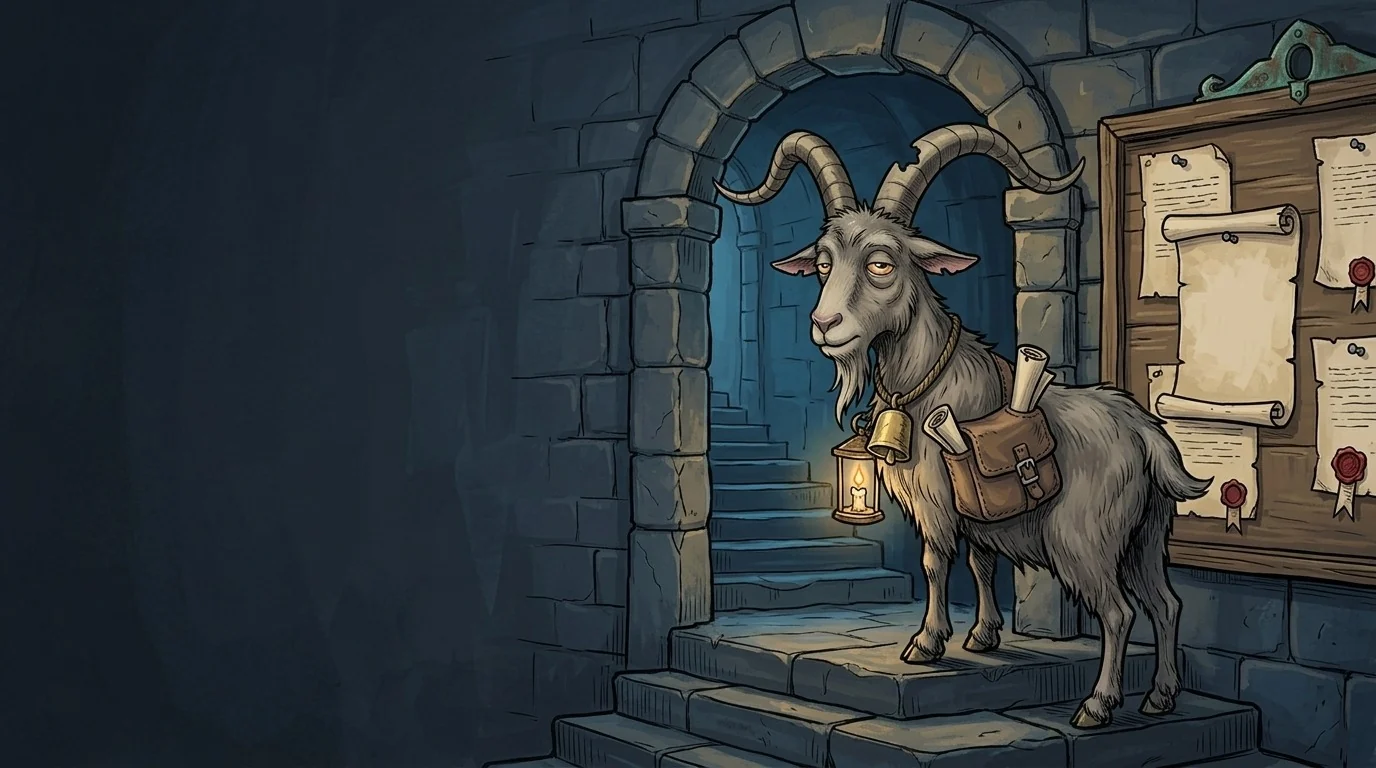
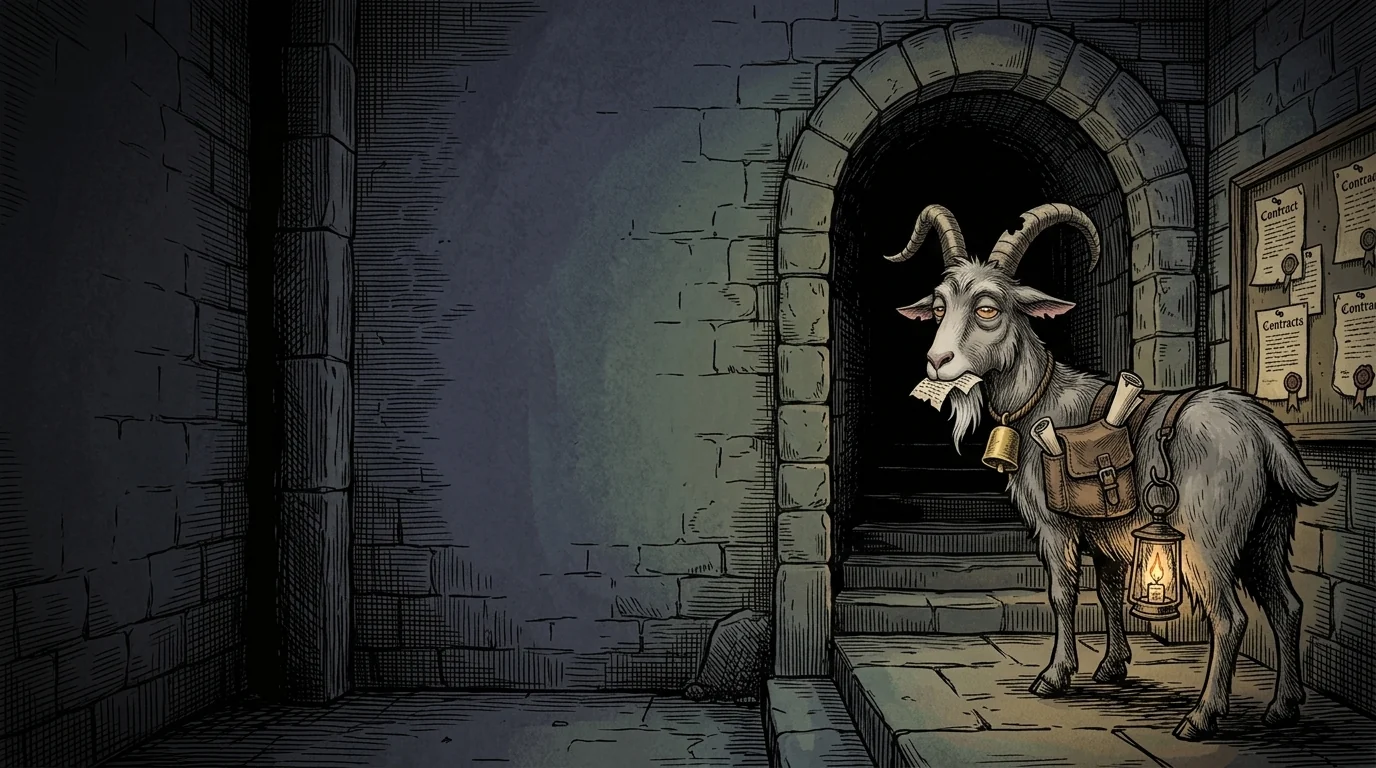
2.22.0: five engraved scenes with Azazel on all fours, dark red death screen
Claude-Session: https://claude.ai/code/session_01DcTTRr3it9U614qgXSqALW

diff --git a/index.html b/index.html
@@ -346,7 +346,7 @@ section.chamber { display: grid; gap: 10px; background: #3a2a1d url(assets/ui/te
 @keyframes rays { to { transform: rotate(360deg); } }
 .mote { position: fixed; top: -12px; z-index: 5; width: 5px; height: 5px; border-radius: 50%; background: #f3c95c; box-shadow: 0 0 8px 2px rgba(243,201,92,.6); pointer-events: none; }
 #scene { transition: filter 2s; }
-#scene.dead { filter: saturate(.35) brightness(.85); }
+#scene.dead { filter: saturate(.3) sepia(.35) hue-rotate(-20deg) brightness(.8); }
 @media (prefers-reduced-motion: reduce) { .endrays { animation: none; } #scene { transition: none; } }
 /* relic pick: the cards turn to face you, rare ones catch the light, the icons float, the taken one flies */
 .picks { perspective: 1000px; }
@@ -422,7 +422,7 @@ ol.lbrows .muted, ol.lbrows .depth { font-size: 13px; text-align: right; }
 /* ---------- title screen (shown once per visit) ---------- */
 /* One column, everything centred under the logo and the same width as it. Wide screens keep the column in the dark
    left part of the painting, centred within that part; upright phones centre it on the screen. */
-#scene.title-art { background-position: 30% center; }
+#scene.title-art { background-position: 85% center; }
 #scene.title-art::after { background: linear-gradient(90deg, rgba(10,12,16,.82), rgba(10,12,16,.55) 42%, rgba(10,12,16,.15) 75%); }
 main.title { max-width: none; min-height: calc(100vh - 56px); min-height: calc(100svh - 56px); grid-template-columns: minmax(0, 46%) 1fr; align-items: center; }
 .titlecard { --w: clamp(320px, 30vw, 440px); width: var(--w); max-width: 100%; justify-self: center; display: grid; gap: 16px; justify-items: stretch; text-align: center; }
@@ -1009,10 +1009,10 @@ main.solo:has(> .end) { grid-template-columns: minmax(0, 1fr) minmax(0, 1fr); }
 main.solo:has(> .end) > :not(details) { grid-column: 1 / -1; }
 main.solo:has(> .end) > details[open] { grid-column: 1 / -1; }
 main.solo:has(> .end) > details.lb { margin: 0; max-width: none; }
-#scene.dead::after { background: radial-gradient(ellipse at 50% 40%, rgba(40,6,8,.55), rgba(18,4,6,.94) 75%); animation: deadglow 2.4s ease-out both; }
+#scene.dead::after { background: radial-gradient(ellipse at 50% 40%, rgba(90,8,12,.5), rgba(14,2,4,.9) 80%); animation: deadglow 2.4s ease-out both; }
 @keyframes deadglow { from { background-color: rgba(150,20,26,.55); } to { background-color: transparent; } }
-.end.dead { background-color: #140d0e; }
-.end .label.ending { color: #d9a0a3; letter-spacing: .2em; }
+.end.dead { border-image-source: url(assets/ui/panel3-dead.webp); }
+.end .label.ending { color: #b5666b; letter-spacing: .2em; }
 .end.dead h2 { color: #c9575c; font-size: 38px; text-shadow: 0 2px 0 #000; }
 .end .epitaph { margin: 0; max-width: 34ch; font: italic 400 21px/1.3 var(--body); color: var(--bone); text-wrap: balance; }
 .end .epitaph::before { content: '“'; } .end .epitaph::after { content: '”'; }
@@ -2380,7 +2380,7 @@ img.clerk { box-shadow: none; border-radius: 0; object-fit: contain !important; 
 const E = window.Engine;
 // Semantic version: MAJOR = overhaul or redesign, MINOR = update, PATCH = bug fix. Bump it in every change and add a CHANGELOG.md entry.
 // Runs from before versioning carry the old tags 'v3' (first public playtest) and 'v4'.
-const VERSION = '2.21.1';
+const VERSION = '2.22.0';
 // Web build only: where run reports go (a Google Form). Empty in the Claude-hosted build.
 const REPORT = {"url": "https://docs.google.com/forms/d/e/1FAIpQLScAulcyNeUuIkKvoNN67TcOBPP4DqzCyN0W5lsdEM4vQ-SZ4w/formResponse", "entry": "entry.1553952563"};
 const BOARD_CSV = "https://docs.google.com/spreadsheets/d/e/2PACX-1vSUVN5ytJFkGg9NFstRvqxNMD3CIX85ApjWW1Hc8mw0DPSgz31VPmJhZ07FcwhStCdDALGtq5ZI2L8r/pub?gid=1200368070&single=true&output=csv"; // the Sheet's published Leaderboard tab; empty hides the board

diff --git a/src/ui.html b/src/ui.html
@@ -345,7 +345,7 @@ section.chamber { display: grid; gap: 10px; background: #3a2a1d url(assets/ui/te
 @keyframes rays { to { transform: rotate(360deg); } }
 .mote { position: fixed; top: -12px; z-index: 5; width: 5px; height: 5px; border-radius: 50%; background: #f3c95c; box-shadow: 0 0 8px 2px rgba(243,201,92,.6); pointer-events: none; }
 #scene { transition: filter 2s; }
-#scene.dead { filter: saturate(.35) brightness(.85); }
+#scene.dead { filter: saturate(.3) sepia(.35) hue-rotate(-20deg) brightness(.8); }
 @media (prefers-reduced-motion: reduce) { .endrays { animation: none; } #scene { transition: none; } }
 /* relic pick: the cards turn to face you, rare ones catch the light, the icons float, the taken one flies */
 .picks { perspective: 1000px; }
@@ -421,7 +421,7 @@ ol.lbrows .muted, ol.lbrows .depth { font-size: 13px; text-align: right; }
 /* ---------- title screen (shown once per visit) ---------- */
 /* One column, everything centred under the logo and the same width as it. Wide screens keep the column in the dark
    left part of the painting, centred within that part; upright phones centre it on the screen. */
-#scene.title-art { background-position: 30% center; }
+#scene.title-art { background-position: 85% center; }
 #scene.title-art::after { background: linear-gradient(90deg, rgba(10,12,16,.82), rgba(10,12,16,.55) 42%, rgba(10,12,16,.15) 75%); }
 main.title { max-width: none; min-height: calc(100vh - 56px); min-height: calc(100svh - 56px); grid-template-columns: minmax(0, 46%) 1fr; align-items: center; }
 .titlecard { --w: clamp(320px, 30vw, 440px); width: var(--w); max-width: 100%; justify-self: center; display: grid; gap: 16px; justify-items: stretch; text-align: center; }
@@ -1008,10 +1008,10 @@ main.solo:has(> .end) { grid-template-columns: minmax(0, 1fr) minmax(0, 1fr); }
 main.solo:has(> .end) > :not(details) { grid-column: 1 / -1; }
 main.solo:has(> .end) > details[open] { grid-column: 1 / -1; }
 main.solo:has(> .end) > details.lb { margin: 0; max-width: none; }
-#scene.dead::after { background: radial-gradient(ellipse at 50% 40%, rgba(40,6,8,.55), rgba(18,4,6,.94) 75%); animation: deadglow 2.4s ease-out both; }
+#scene.dead::after { background: radial-gradient(ellipse at 50% 40%, rgba(90,8,12,.5), rgba(14,2,4,.9) 80%); animation: deadglow 2.4s ease-out both; }
 @keyframes deadglow { from { background-color: rgba(150,20,26,.55); } to { background-color: transparent; } }
-.end.dead { background-color: #140d0e; }
-.end .label.ending { color: #d9a0a3; letter-spacing: .2em; }
+.end.dead { border-image-source: url(assets/ui/panel3-dead.webp); }
+.end .label.ending { color: #b5666b; letter-spacing: .2em; }
 .end.dead h2 { color: #c9575c; font-size: 38px; text-shadow: 0 2px 0 #000; }
 .end .epitaph { margin: 0; max-width: 34ch; font: italic 400 21px/1.3 var(--body); color: var(--bone); text-wrap: balance; }
 .end .epitaph::before { content: '“'; } .end .epitaph::after { content: '”'; }
@@ -1509,7 +1509,7 @@ img.clerk { box-shadow: none; border-radius: 0; object-fit: contain !important; 
 const E = window.Engine;
 // Semantic version: MAJOR = overhaul or redesign, MINOR = update, PATCH = bug fix. Bump it in every change and add a CHANGELOG.md entry.
 // Runs from before versioning carry the old tags 'v3' (first public playtest) and 'v4'.
-const VERSION = '2.21.1';
+const VERSION = '2.22.0';
 // Web build only: where run reports go (a Google Form). Empty in the Claude-hosted build.
 const REPORT = { url: '', entry: '' }; /*REPORT_CONFIG*/
 const BOARD_CSV = ''; /*BOARD_CONFIG*/ // the Sheet's published Leaderboard tab; empty hides the board

diff --git a/CHANGELOG.md b/CHANGELOG.md
@@ -8,6 +8,11 @@ Scapegrace (called Guild Ledger before 1.20.0) uses a three-part version number,
 
 The version lives in `VERSION` near the top of the script in `src/ui.html`. It is shown at the bottom of every screen and sent with every run report, so feedback can be matched to the build that produced it.
 
+## 2.22.0
+
+- Five engraved scene paintings replace the old ones (title, guild hall, training, victory, defeat), each with Azazel on all fours and his lantern hung from his satchel.
+- The death screen is now dark and red: an oxblood engraved panel (no blue box), a blood-dark scene behind it.
+
 ## 2.21.1
 
 - The death screen drops its glowing red outline and rounded box; it now uses the same engraved panel as every other end screen, with a flat oxblood title.
